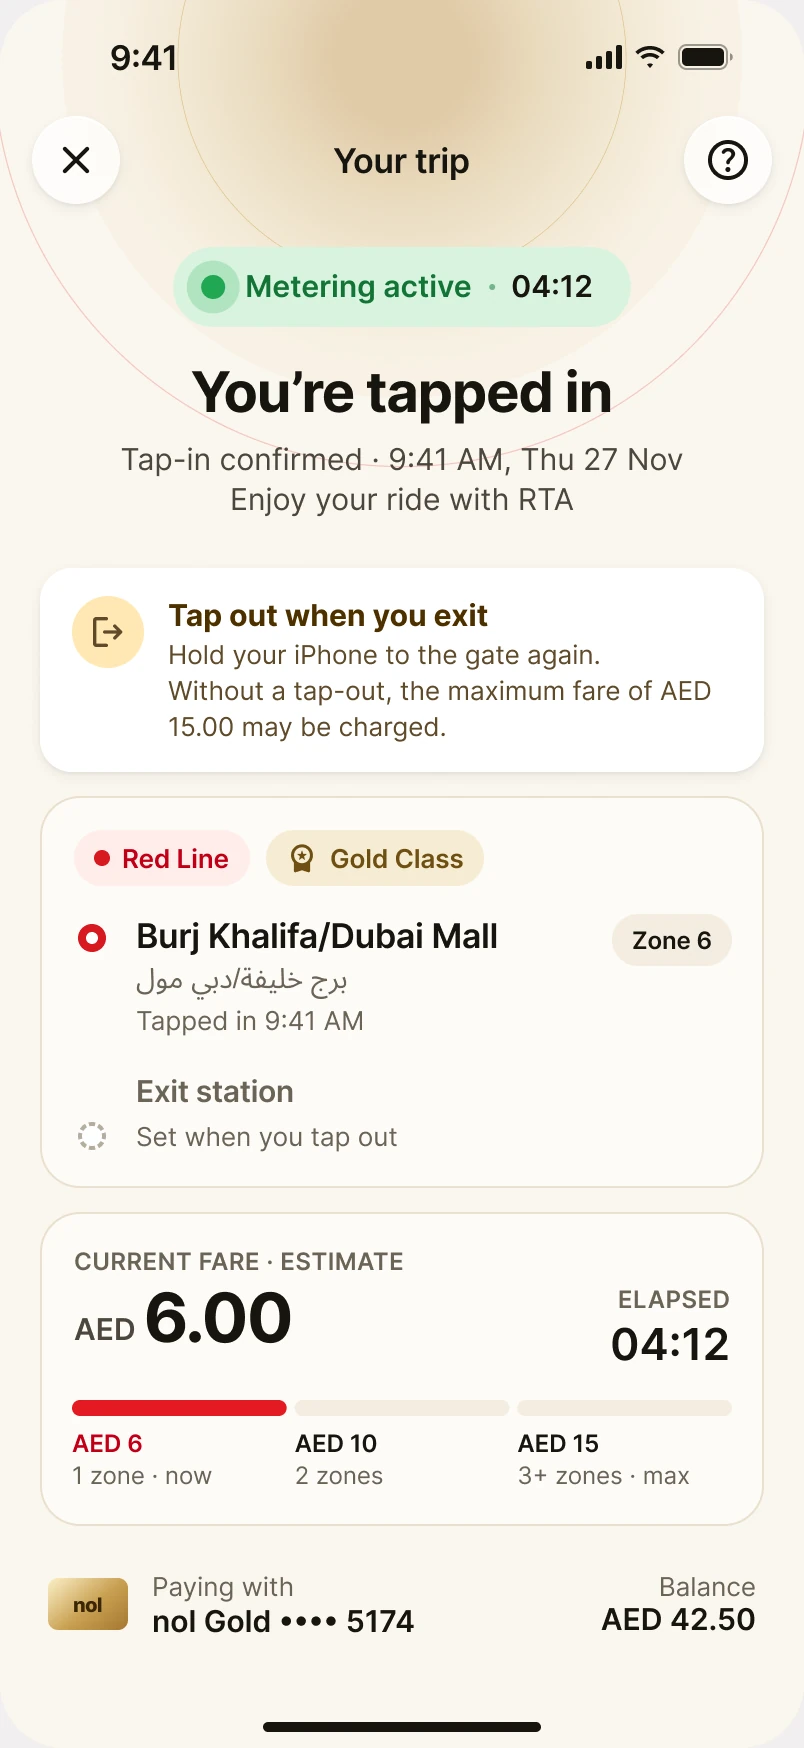
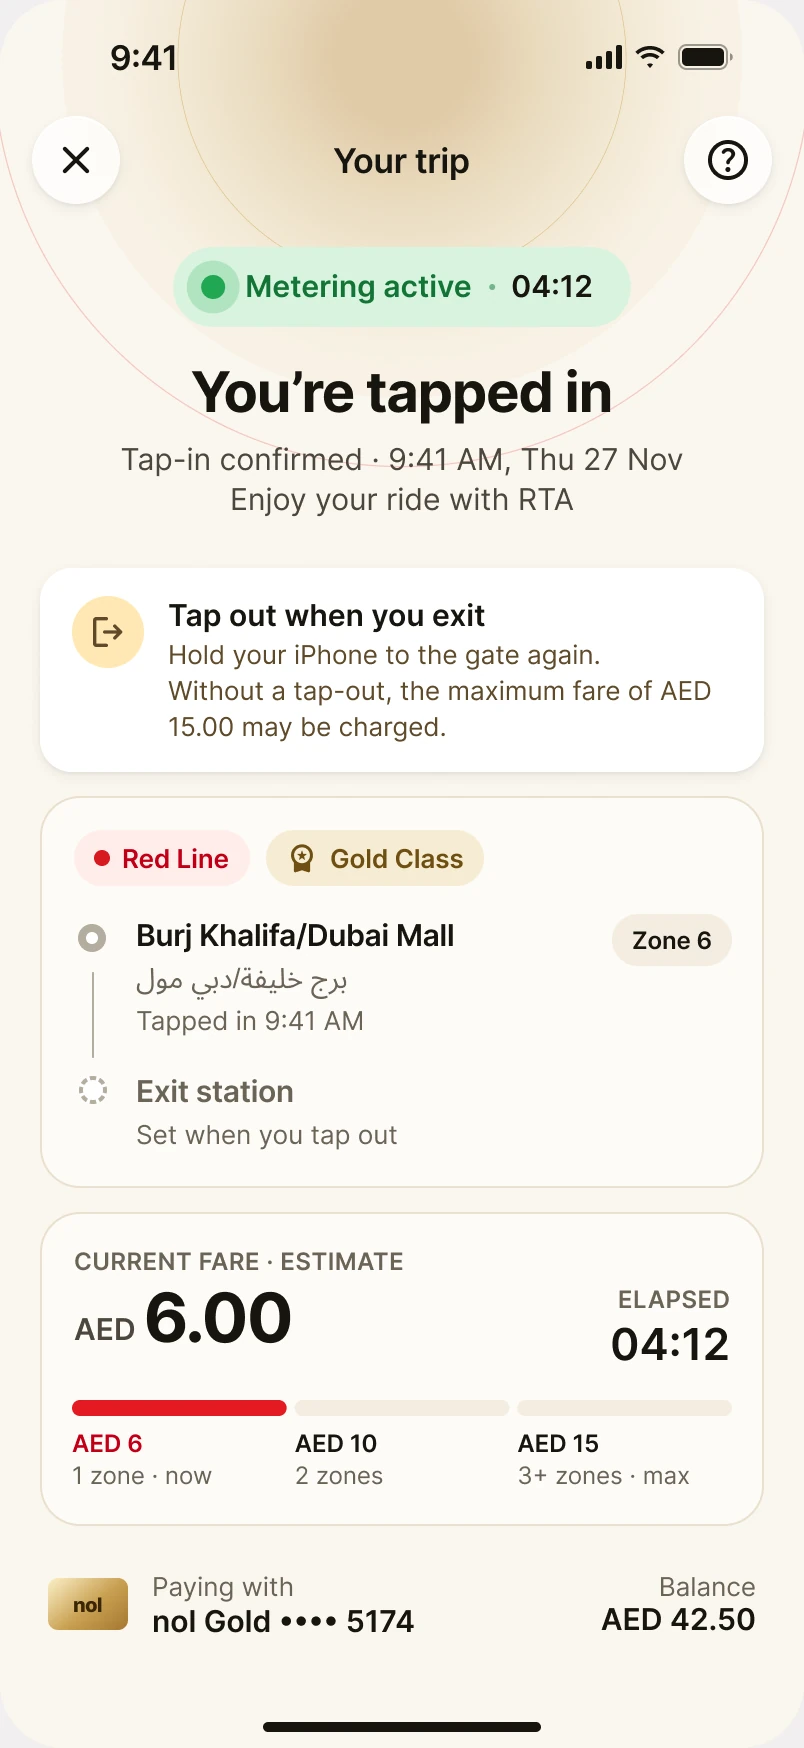
RTA Dubai section: re-export screens 1–3 from Figma
Screen 1 gets the new "Tap to ride" nav bar, screen 2 the updated
trip timeline, screen 3 the updated vehicle chips. Screen 4 is
unchanged in Figma. Cache-busting bumped to ?v=3 on screens 1–3.

diff --git a/portfolio/native-mobile-apps.html b/portfolio/native-mobile-apps.html
@@ -1438,13 +1438,13 @@
   <!-- RTA Dubai screens (Figma page "RTA Dubai": 243:2, 244:2, 245:2, 246:2), exported at 2×,
        shown with the Surprise Me phone style (.sm) -->
   <template id="tpl-rta-tap">
-    <div class="sm"><img src="./NATIVE MOBILE APPS/rta-dubai/1.webp?v=2" width="402" height="874" alt="" decoding="async" /></div>
+    <div class="sm"><img src="./NATIVE MOBILE APPS/rta-dubai/1.webp?v=3" width="402" height="874" alt="" decoding="async" /></div>
   </template>
   <template id="tpl-rta-trip">
-    <div class="sm"><img src="./NATIVE MOBILE APPS/rta-dubai/2.webp?v=2" width="402" height="874" alt="" decoding="async" /></div>
+    <div class="sm"><img src="./NATIVE MOBILE APPS/rta-dubai/2.webp?v=3" width="402" height="874" alt="" decoding="async" /></div>
   </template>
   <template id="tpl-rta-zone">
-    <div class="sm"><img src="./NATIVE MOBILE APPS/rta-dubai/3.webp" width="402" height="874" alt="" decoding="async" /></div>
+    <div class="sm"><img src="./NATIVE MOBILE APPS/rta-dubai/3.webp?v=3" width="402" height="874" alt="" decoding="async" /></div>
   </template>
   <template id="tpl-rta-pay">
     <div class="sm"><img src="./NATIVE MOBILE APPS/rta-dubai/4.webp" width="402" height="874" alt="" decoding="async" /></div>
